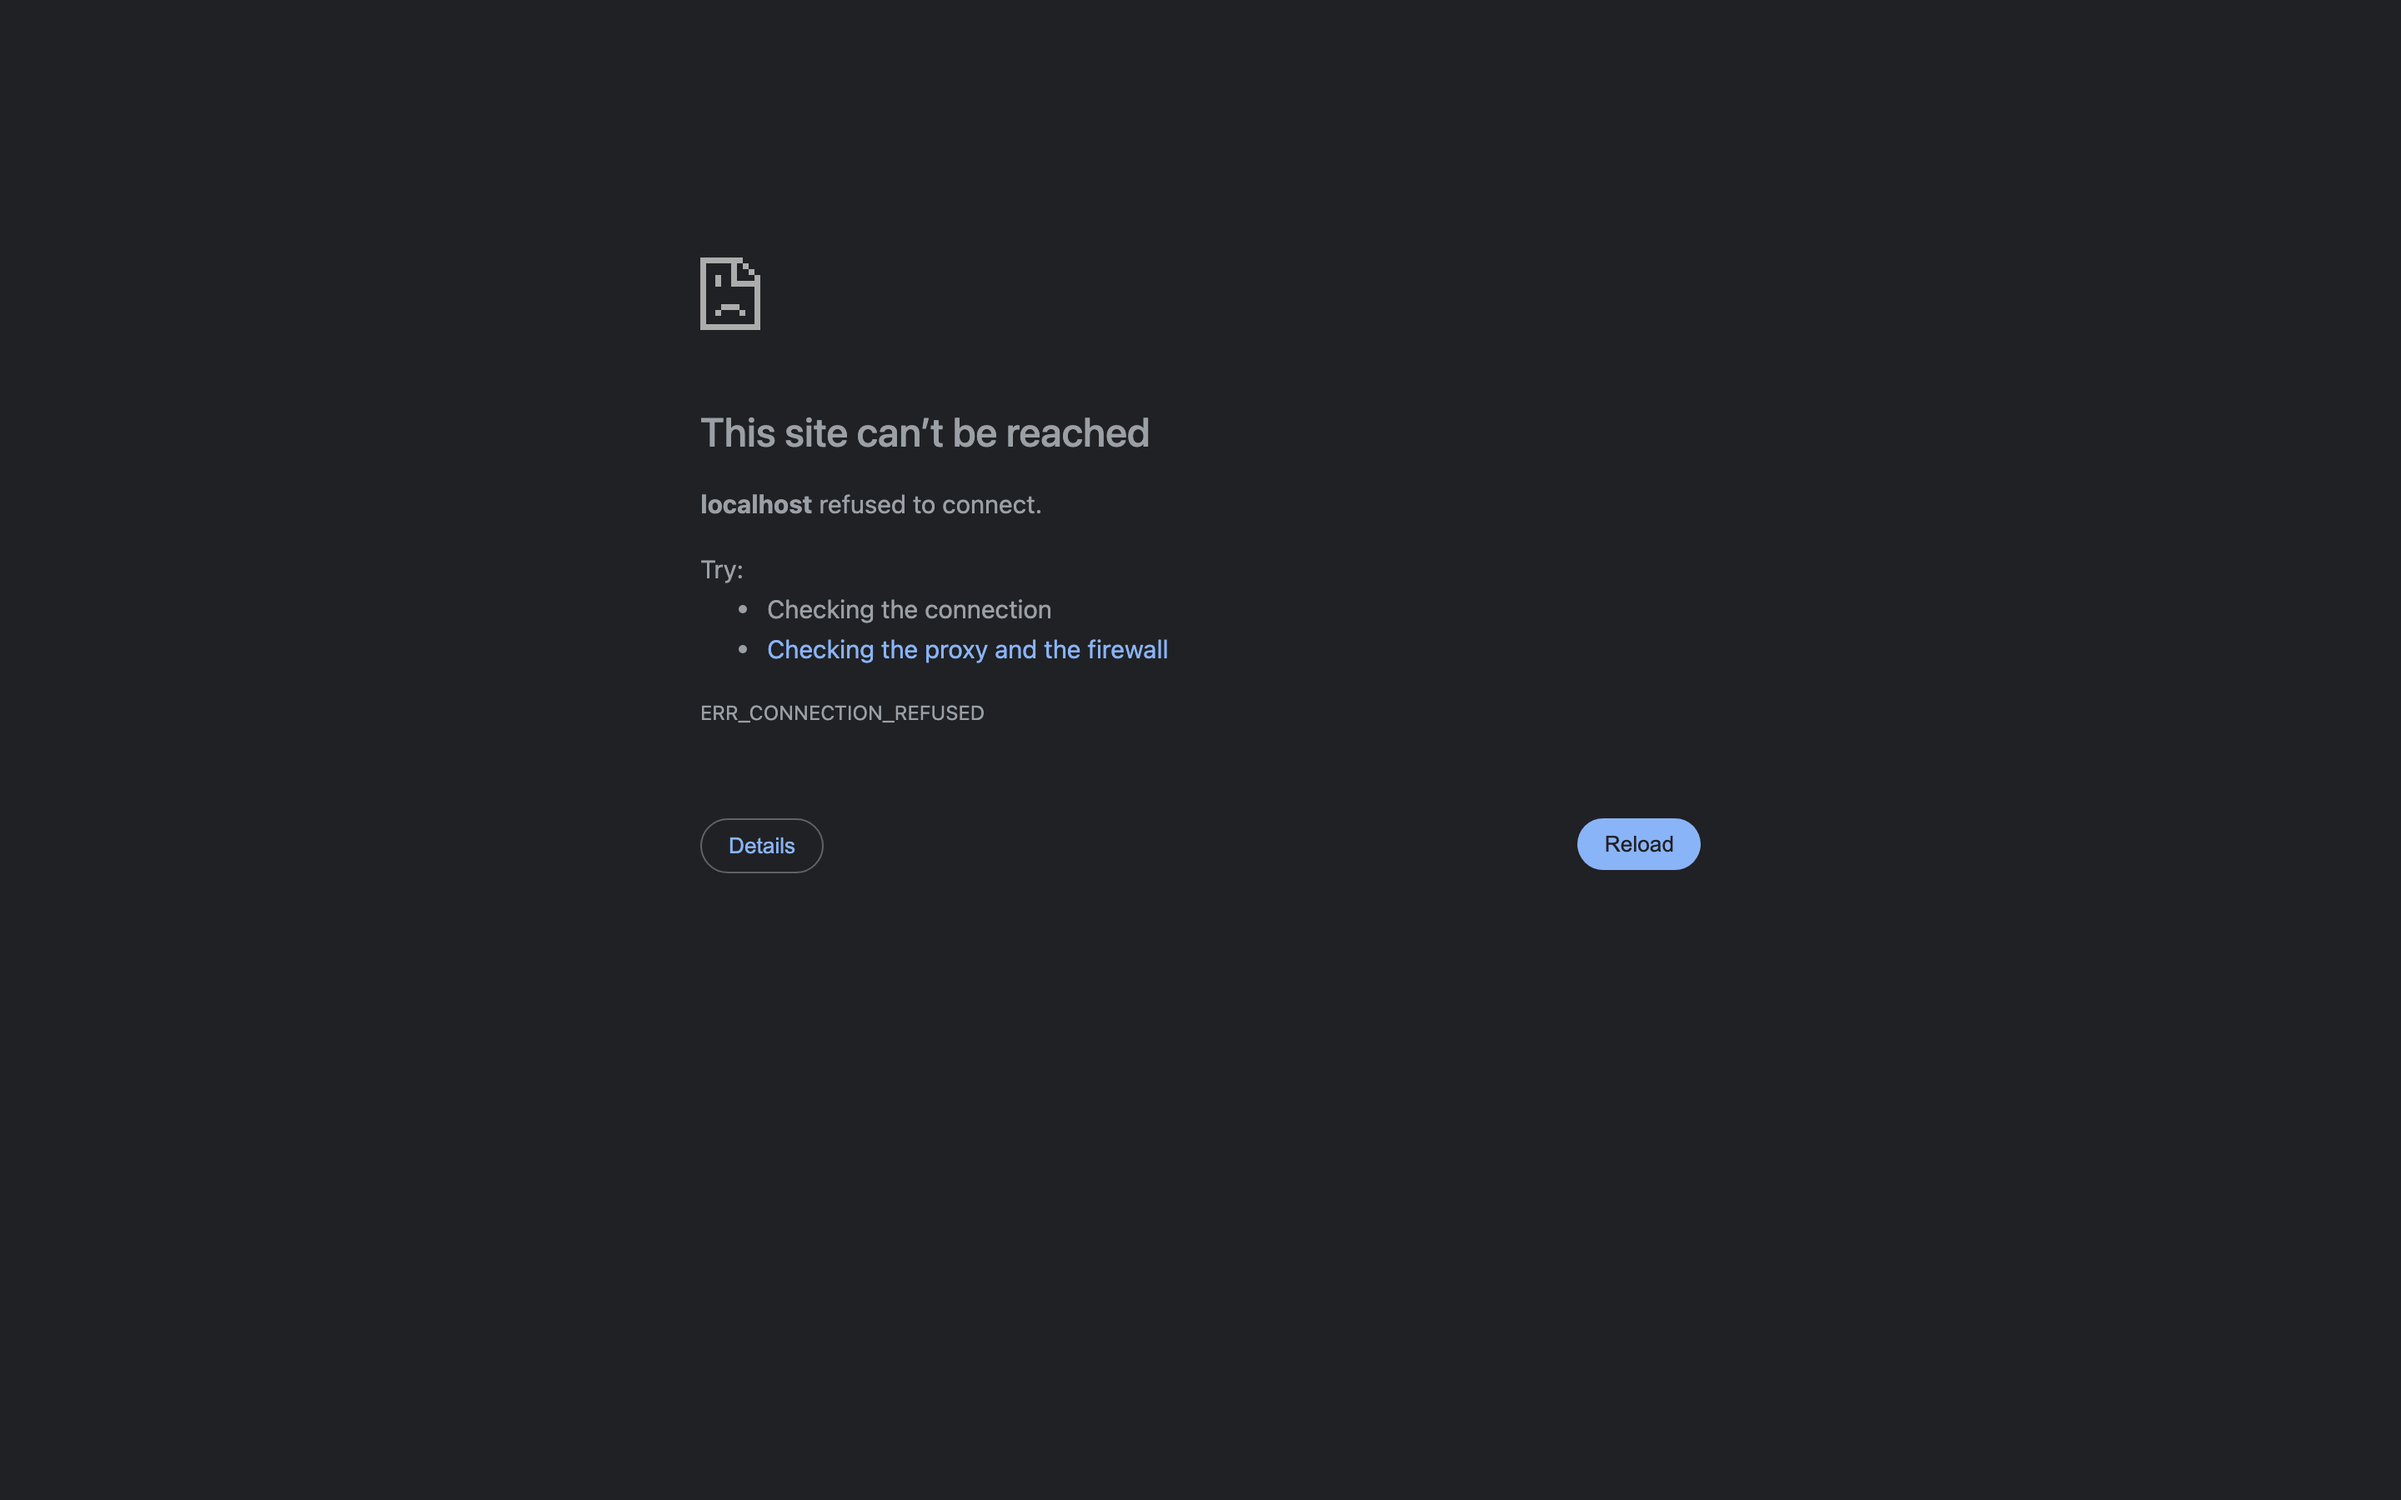
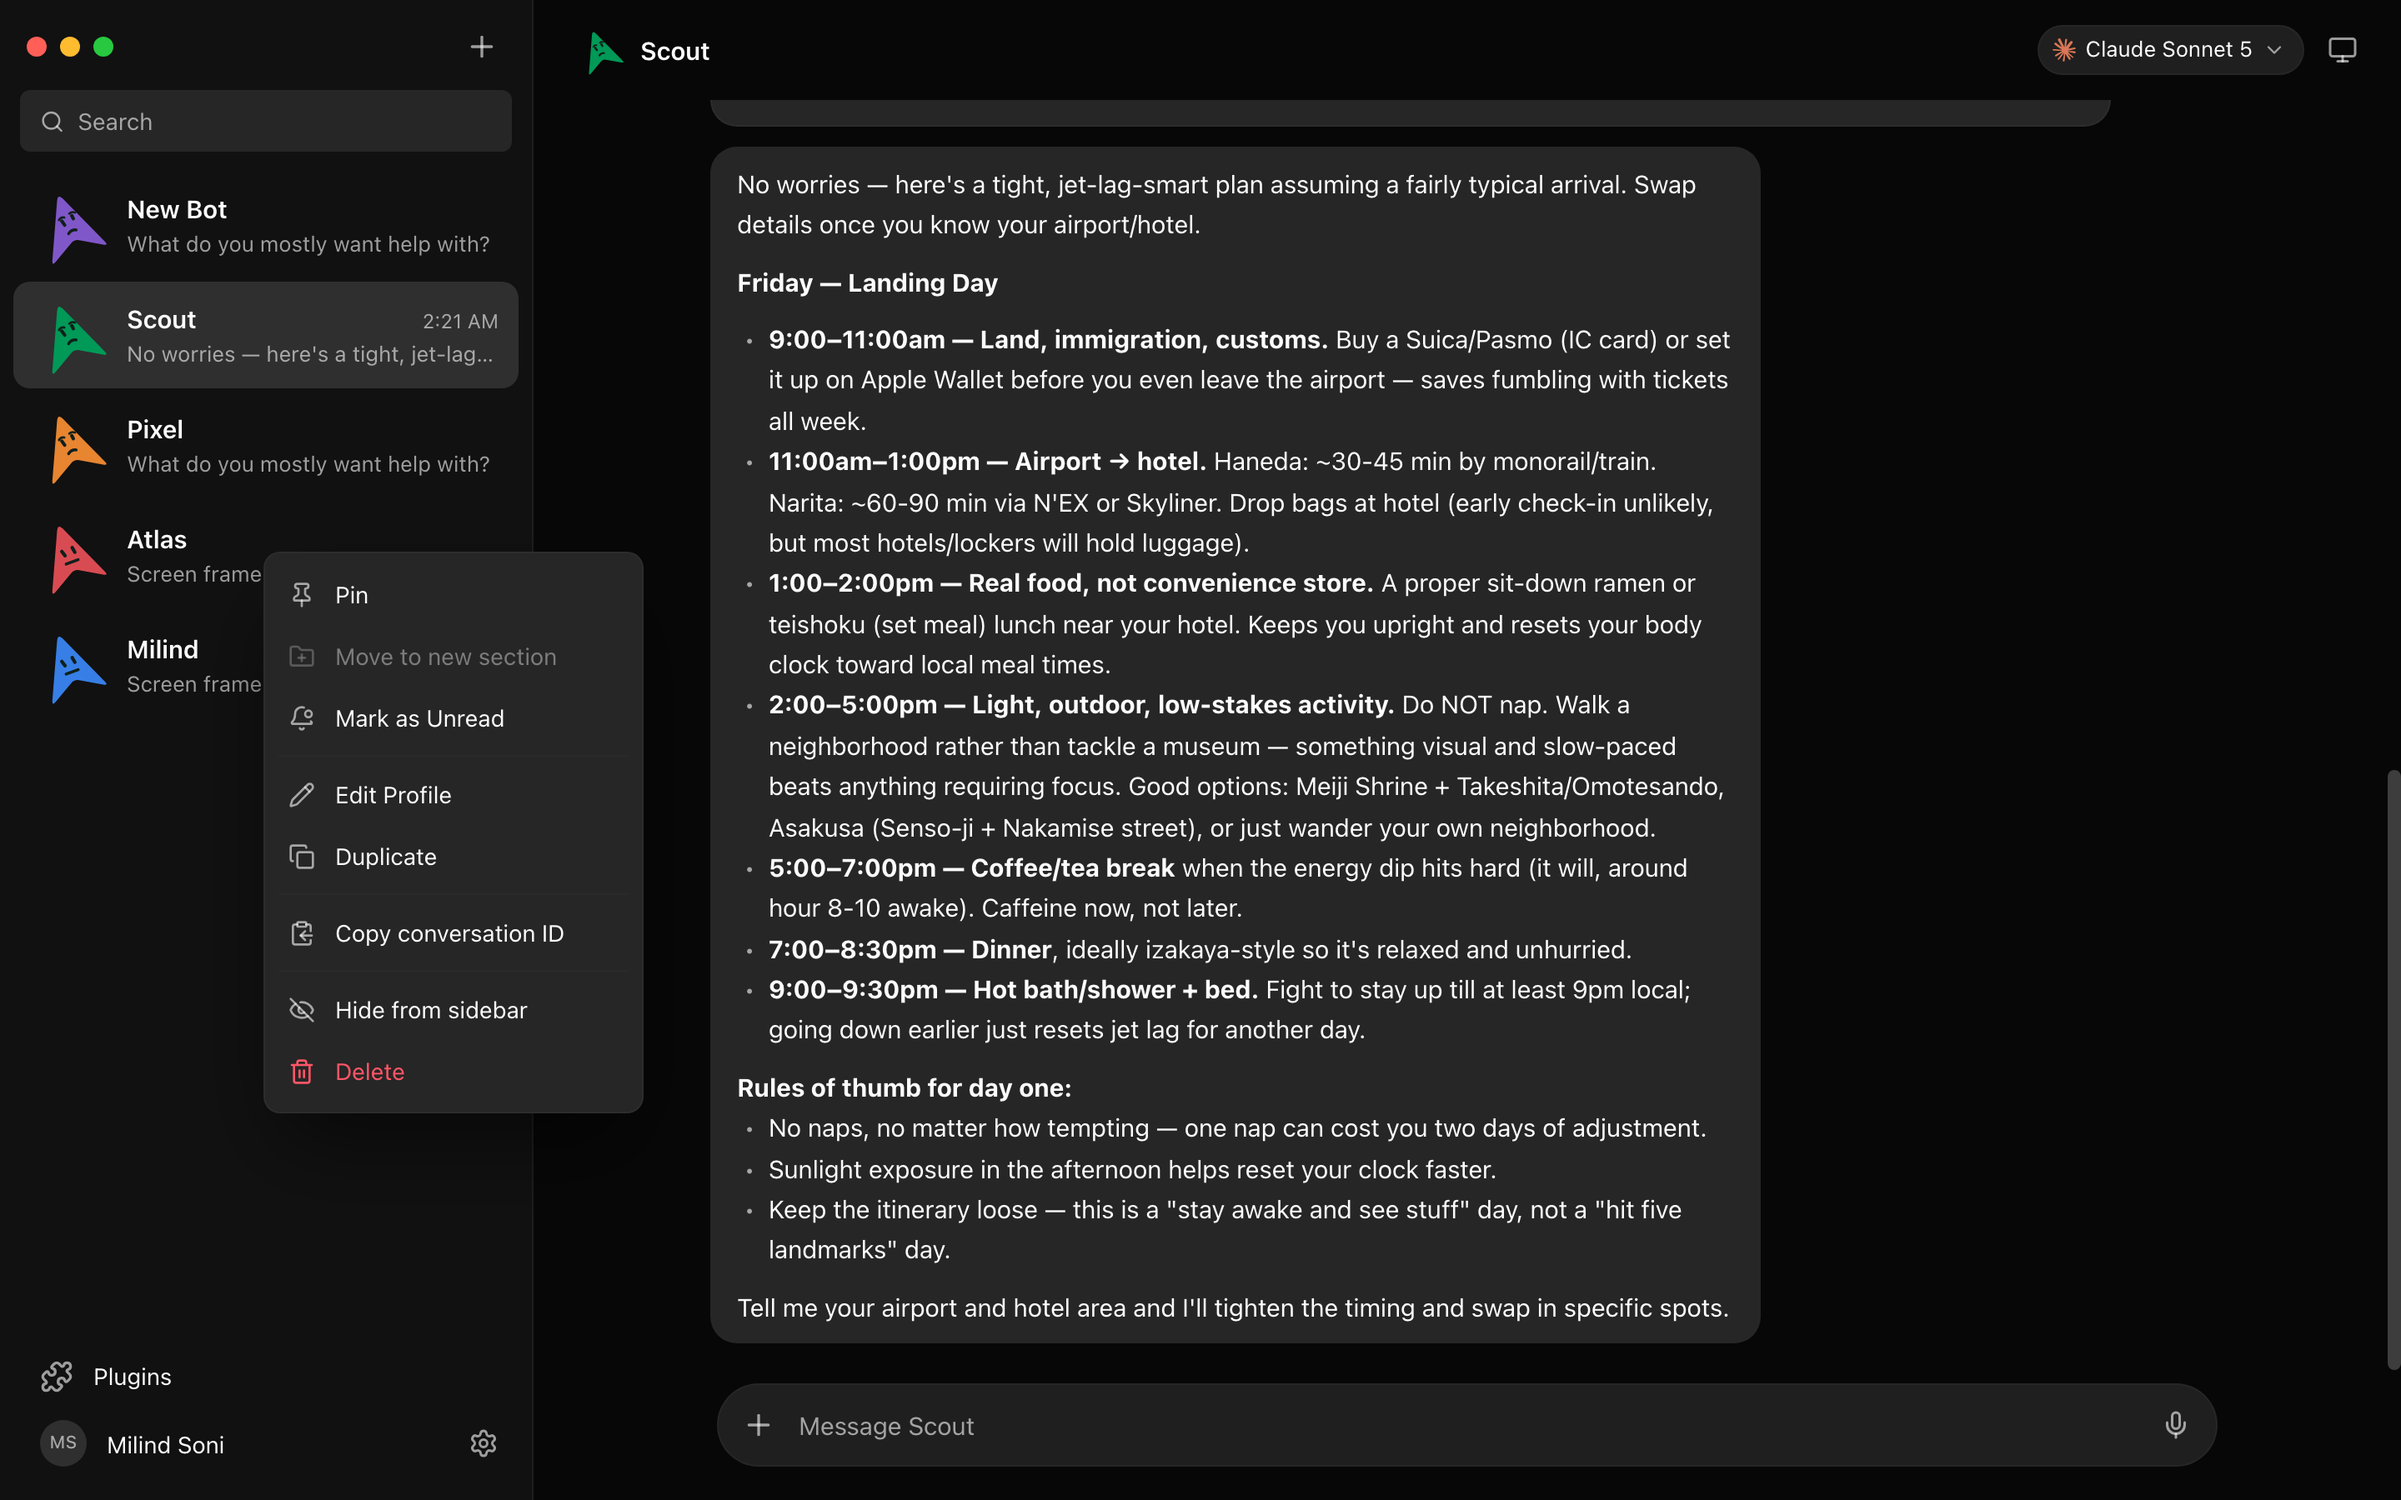
README with screenshots + bot context menu + markdown bubbles
README rebuilt for the OpenMausBot direction: hero + six real
screenshots (docs/screenshots, retina), feature grid, mermaid
architecture, quick start, status. New sidebar context menu per bot
(pin / mark unread / edit / duplicate / copy conversation ID / hide /
delete) wired to the new DELETE route and pinned/hidden fields. Bot
bubbles render markdown (bold, code, headings, lists) as React nodes.
Vite: ignore packager output in watch (fixes reload-loop flicker) and
bind 127.0.0.1 explicitly.

diff --git a/vite.config.ts b/vite.config.ts
@@ -11,6 +11,9 @@ export default defineConfig({
     },
   },
   server: {
+    // IPv4 explicitly — a bare ::1 bind makes localhost a coin-flip for
+    // clients that resolve IPv4 first
+    host: "127.0.0.1",
     port: 5199,
     // packager output lands inside the repo — its HTML files must never
     // trigger dev full-page reloads

diff --git a/README.md b/README.md
@@ -1,61 +1,181 @@
-# OpenGrokBot
+<div align="center">
 
-An open clone of the **Grok Bot** macOS app — a Telegram-style chat manager
-for AI bots, where every bot is a real agent running on the provider of your
-choice.
+# OpenMausBot
+
+**Your own team of AI bots, in a chat app.**
+
+Every bot in the sidebar is a real agent — Claude or Codex running locally under the hood — with its own
+personality, its own model, its own cloud computer, and its own connected apps.
+Talk to them like contacts. Watch them work. Approve what matters.
+
+![TypeScript](https://img.shields.io/badge/TypeScript-strict-3178C6?logo=typescript&logoColor=white)
+![React](https://img.shields.io/badge/React-19-61DAFB?logo=react&logoColor=black)
+![Electron](https://img.shields.io/badge/Electron-macOS-2B2E3A?logo=electron&logoColor=9FEAF9)
+![Agents](https://img.shields.io/badge/agents-Claude%20·%20Codex-d97757)
+![PRs](https://img.shields.io/badge/PRs-welcome-38d591)
+
+<img src="docs/screenshots/hero.png" alt="OpenMausBot — a Telegram-style chat app where every chat is a real AI agent" width="900">
+
+</div>
+
+---
+
+## Why
+
+[Grok Bot](https://x.ai) reimagined AI as a *messaging app* — a roster of bots you chat with instead of one
+assistant in one box. OpenMausBot is an open, local-first take on that idea, built on the agents you already
+have:
+
+- **Bring your own agents.** Bots run on the `claude` and `codex` CLIs installed on your Mac — your existing
+  logins and subscriptions, no new accounts, no proxy in the middle.
+- **Local first.** One small harness server on `127.0.0.1` owns every agent process. Transcripts, keys, and
+  events live in `~/.openmausbot`, not a cloud.
+- **Agents with hands.** Each bot can get a real computer — a cloud Linux desktop it drives while you watch
+  live, or your own Mac — plus 500+ apps through Composio Connect.
+
+## Features
+
+<table>
+<tr>
+<td width="50%" valign="top">
+
+### 🧠 Pick a brain per bot
+
+A model picker with a provider rail — Claude and Codex models side by side, defaults marked, unavailable
+providers dimmed with the reason. Switch a bot's model mid-conversation.
+
+<img src="docs/screenshots/model-picker.png" alt="Model picker with provider rail" width="100%">
+
+</td>
+<td width="50%" valign="top">
+
+### 🖥 Every bot gets a computer
+
+Open the Computer panel and the bot's cloud desktop spins up on its own — live screen preview while it
+works, "Open desktop" to take over in your browser, or point the bot at *this Mac* instead.
+
+<img src="docs/screenshots/computer-panel.png" alt="Computer panel with live screen preview" width="100%">
+
+</td>
+</tr>
+<tr>
+<td width="50%" valign="top">
+
+### 🙋 Bots ask before they act
+
+Shell commands, file edits, and questions surface as inline cards — Allow / Deny / answer in chat. A
+permission broker turns every risky action into a decision you make, for cloud and local computers alike.
+
+<img src="docs/screenshots/approval-card.png" alt="Approval and question cards in chat" width="100%">
+
+</td>
+<td width="50%" valign="top">
+
+### 🔌 Connected apps
+
+A one-click marketplace over Composio Connect: Gmail, Slack, GitHub, Notion, Linear and hundreds more.
+OAuth once, and every bot can use them as tools.
+
+<img src="docs/screenshots/marketplace.png" alt="Connected apps marketplace" width="100%">
+
+</td>
+</tr>
+<tr>
+<td width="50%" valign="top">
+
+### 🗂 Manage bots like chats
+
+Right-click any bot: pin, mark unread, edit profile, duplicate, copy conversation ID, hide, delete. It's a
+messaging app — your agents behave like contacts.
+
+<img src="docs/screenshots/context-menu.png" alt="Bot context menu" width="100%">
+
+</td>
+<td width="50%" valign="top">
+
+### 🔑 Keys once, everything lights up
+
+Paste credentials in App Settings — they persist locally and the provider fleet hot-reloads instantly.
+Secrets are write-only: the UI only ever sees "configured" flags.
+
+<img src="docs/screenshots/app-settings.png" alt="App-level settings with API keys" width="100%">
+
+</td>
+</tr>
+</table>
+
+**Also in the box:** streaming replies with tool-run activity chips · native macOS dictation from the
+composer mic (on-device Apple speech recognition — desktop app) · SupaMaus cursor mascots with role-aware
+expressions · screenshots of the bot's work folded into the transcript.
 
 ## How it works
 
-Two processes:
+Two processes. The app holds no transports of its own — it sends typed commands over HTTP and folds one SSE
+event stream into state. The harness server owns every agent process and normalizes each provider's native
+protocol into one canonical runtime event stream (logged per-thread as NDJSON).
 
-- **Harness server** (`server/`, port 8799) — owns every provider process.
-  A driver registry turns instance configs into live provider instances
-  (Claude and Codex over their local CLIs, and a cloud-computer agent; a
-  Grok/xAI API driver exists behind config). Every driver's native protocol
-  is normalized into one canonical runtime event stream, which is logged
-  per-thread as NDJSON, folded into persistent transcripts, and fanned out
-  to clients over SSE.
-- **App** (`src/`, port 5199) — React + Tailwind. Holds no transports of its
-  own: it sends typed commands over HTTP (`/api/...`, proxied by Vite) and
-  folds the one SSE stream into local state.
+```mermaid
+flowchart LR
+    subgraph app ["App — React + Tailwind (5199)"]
+        UI[Chat UI · model picker · computer panel]
+    end
+    subgraph server ["Harness server (127.0.0.1:8799)"]
+        REG[Driver registry] --> BUS[Event bus → SSE]
+        BROKER[Permission broker]
+    end
+    subgraph agents ["Agents on your Mac"]
+        CL[claude CLI]
+        CX[codex CLI]
+    end
+    UI -- "HTTP commands" --> server
+    BUS -- "one SSE stream" --> UI
+    REG --> CL & CX
+    CL & CX -- "MCP" --> BROKER
+    server -- "Box API" --> BOX[("Cloud computer<br/>box.ascii.dev")]
+    server -- "Composio Connect" --> APPS[("Gmail · Slack · GitHub · …")]
+```
 
-Features wired end-to-end:
+| Layer | Where | What it does |
+|---|---|---|
+| Drivers | `server/drivers/` | One per provider: Claude and Codex over their local CLIs (stream-JSON / JSON-RPC), plus a cloud-computer agent. Unknown drivers degrade to "unavailable", never crash the fleet. |
+| Harness | `server/harness/` | Registry (configs → live instances) and the fan-in event bus every client folds. |
+| API | `server/index.ts` | Bots, turns, approvals, model catalog, computer lifecycle, connectors, config — HTTP + SSE. |
+| App | `src/` | The chat shell. Server-backed store, one reducer, zero client-side transports. |
+| Desktop | `electron/` | macOS shell: dictation helper (SFSpeechRecognizer), local screen capture, CUA bridge. |
 
-- **Sidebar** — bot list with SupaMaus cursor mascots, role-aware expressions,
-  ten-color identities, previews, unread dots,
-  new-bot button, Plugins + profile footer
-- **Chat** — streaming replies (token deltas), tool-run activity chips,
-  approval/question cards answered inline, screenshots of the bot's cloud
-  computer, stop button
-- **Model selector** — in the chat header and in Settings: per-instance rail
-  with provider marks, model list with defaults, unavailable providers shown
-  disabled with the reason (missing API key, CLI not installed, …)
-- **Computer** — each bot gets a computer: a cloud box (auto-provisioned,
-  live screen preview, hand-over via browser) or this Mac (frames via the
-  desktop app), with a per-bot cloud/local/off switch
-- **Voice** — the composer mic dictates via native macOS speech recognition
-  (desktop app; on-device when supported)
-- **Settings** — per-bot Name / Title / Description (become the bot's system
-  prompt), model selection, Notifications toggle; app-level credentials
-  (Composio, Box) are pasted once in App Settings and hot-reload the fleet
-- **Connected apps** — Composio Connect marketplace with one-click OAuth
-
-## Run
+## Quick start
 
 ```sh
+git clone https://github.com/milind-soni/OpenGrokBot && cd OpenGrokBot
 pnpm install
-pnpm dev:server   # harness server on http://127.0.0.1:8799
-pnpm dev          # app on http://localhost:5199 (proxies /api to the server)
-pnpm dev:desktop  # Electron shell (loads the dev URL)
+
+pnpm dev:server    # harness server → 127.0.0.1:8799
+pnpm dev           # app → http://127.0.0.1:5199
+pnpm dev:desktop   # or the Electron shell
 ```
 
-Provider setup: paste keys in **App Settings** (gear in the sidebar footer)
-— Composio Connect key, optional Composio API key (full app catalog), Box
-token. They persist to `~/.opengrokbot/config.json` and the provider fleet
-hot-reloads. Claude and Codex need their CLIs (`claude`, `codex`) installed
-and logged in.
+Requirements: **macOS**, **Node 24+**, **pnpm**, and at least one agent CLI — [`claude`](https://claude.com/claude-code)
+or [`codex`](https://github.com/openai/codex) — installed and logged in. They appear in the model picker
+automatically.
+
+Optional, pasted once in **App Settings** (gear in the sidebar footer):
+
+| Key | Unlocks |
+|---|---|
+| Composio Connect key (`ck_…`) | The connected-apps marketplace |
+| Composio API key (`ak_…`) | The full 500+ app catalog with official logos |
+| Box token ([box.ascii.dev](https://box.ascii.dev)) | Cloud computers for your bots |
 
 ```sh
-pnpm typecheck    # app + server
-pnpm build        # typecheck + production build
+pnpm typecheck     # app + server
+pnpm build         # typecheck + production build
 ```
+
+## Status
+
+Early but real — the loop works end to end: message → agent → streamed reply → tools → approvals →
+computer use. Rough edges to expect: routines (scheduled tasks) are a placeholder, sidebar sections aren't
+built yet, and Windows/Linux shells haven't been attempted (the harness itself is portable Node).
+
+Contributions welcome — the driver SPI in [`server/contracts.ts`](server/contracts.ts) is deliberately
+small; adding a provider is one file in [`server/drivers/`](server/drivers/) plus a one-line registration.
